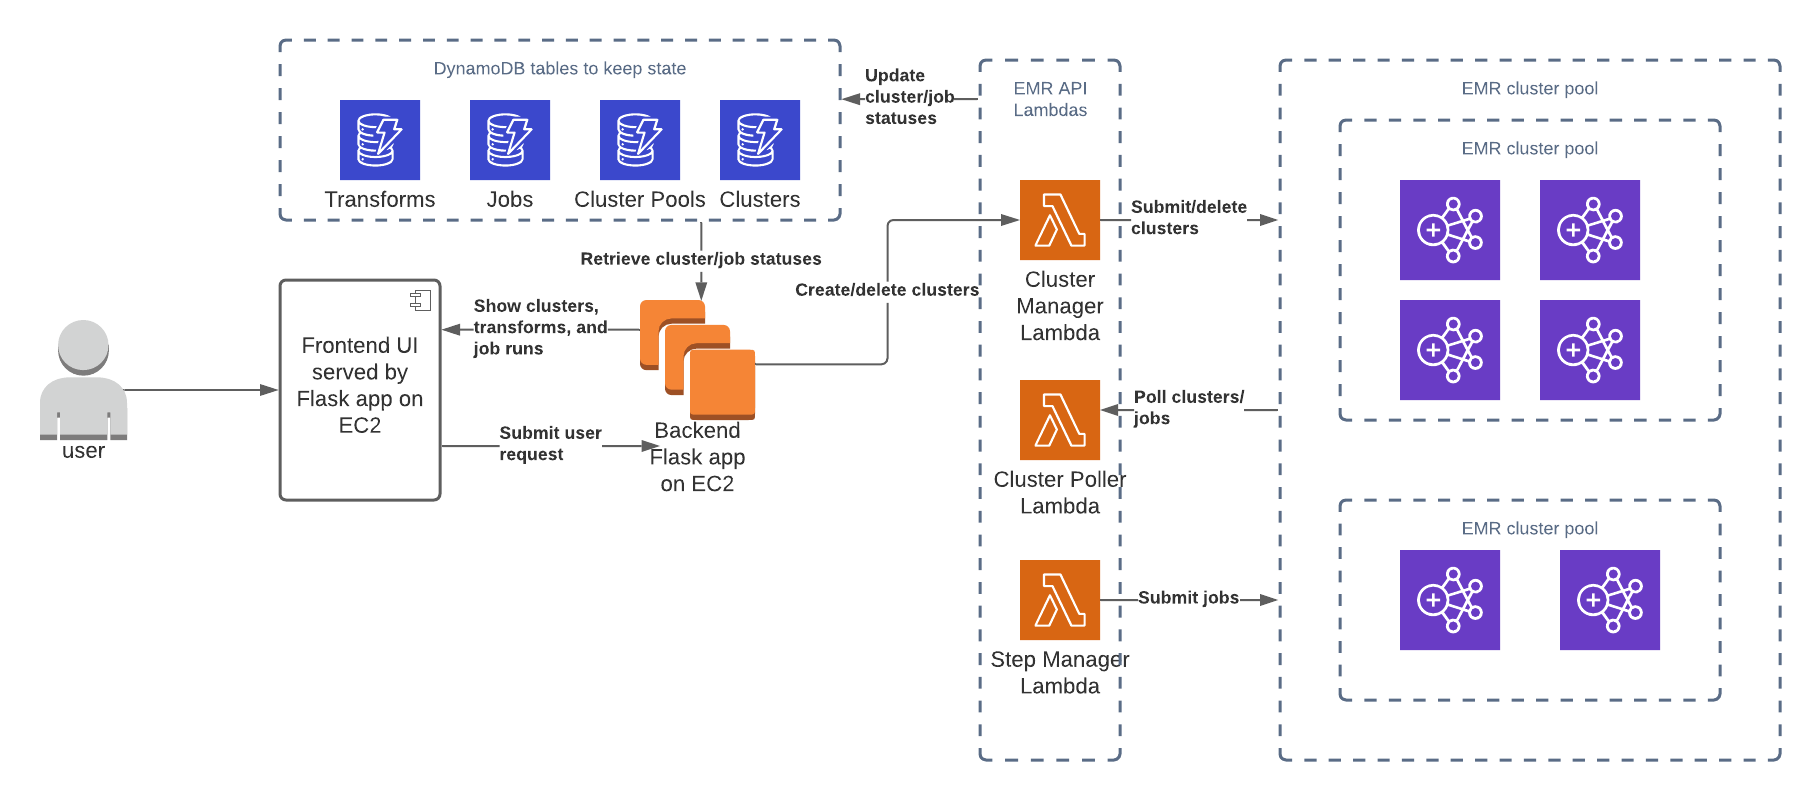
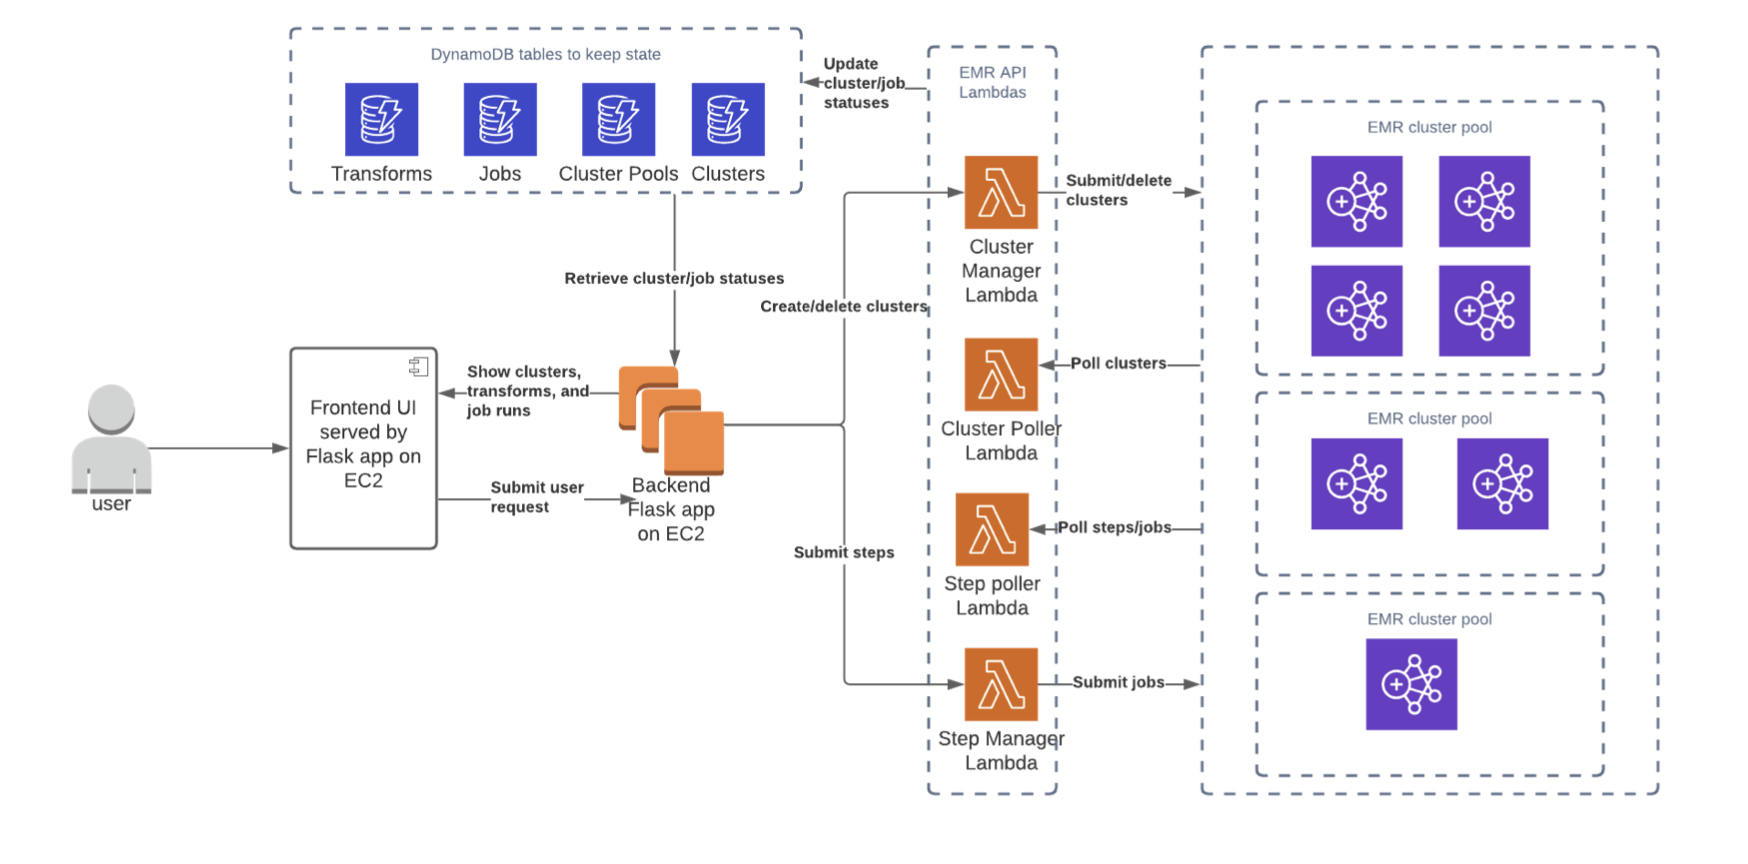
Post 13 and begin post 14

diff --git a/content/post13.rst b/content/post13.rst
@@ -1,0 +1,96 @@
+****************
+SparkFlow: Intro
+****************
+
+:date: 2021-02-28 00:00
+:modified: 2021-02-28 00:00
+:tags: Data Engineering
+:category: Data Engineering
+:authors: Adams Rosales
+:summary: Building an EMR orchestration and ETL tool for distributed jobs
+:header_cover: /static/post13/header.jpg
+
+Motivation
+##########
+I have been working with Spark jobs on AWS EMR for a few years now and have found myself implementing the same pieces of
+code to manage EMR clusters and submit applications on them each time I've switched teams. I have also had the pleasure
+(and displeasure) of working with several internal tools that abstract away this process behind custom built UIs.
+
+I've learned what works well and what doesn't work so well with these tools so I figured I would create something that
+mixes all the best qualities from them to create a lightweight orchestration tool I can use in the future.
+
+Background
+##########
+AWS EMR is service that allows users to deploy clusters of EC2 instances to run distributed data processing applications.
+You can launch the compute power you need to run these applications when you need it and tear it down when you don't,
+which provides a lot more flexibility and is much cheaper for transient workloads than maintaining an always-on on-premise
+Hadoop cluster.
+
+Managing clusters and submitting applications on them can be done in three ways: manually through the AWS console,
+programmatically through the AWS API with the various SDKs made available by Amazon, and through CloudFormation or a
+similar infrastructure as code tool. The manual way is obviously not suited for production pipelines and scaling
+infrastructure automatically. Writing scripts to interact with the AWS API is easy enough but requires a lot of boiler
+plate code and there are many configs to tweak. Designing something that works generally for different use cases is quite
+time consuming. Finally, CloudFormation is more suited for always-on clusters or a fixed fleet that just gets restarted
+without any inputs from users or applications.
+
+Unfortunately, there is no open source tool (that I know of) as of the end of 2020 that provides an easy to set up and
+use interface for running these EMR workflows. It would be nice if AWS offered a higher level abstraction on top of the
+EMR API that would give users a full-featured ETL tool for Spark, Hive, Flink, etc. applications. I guess they sort of
+have that with AWS Glue and the new managed AirFlow service but these are not quite there yet as more established ETL
+and orchestration tools we've seen in the traditional data warehousing space.
+
+Design
+######
+The system consists of three main components: the UI, Flask server, and AWS Lambdas that call various AWS API endpoints
+to create and manage EMR clusters and steps on those clusters. A high level diagram is below.
+
+.. image:: /static/post13/post13_design.png
+  :width: 100%
+  :alt: SparkFlow design diagram
+
+The cluster manager Lambda receives input from the Flask server on how many clusters to create along with the types of
+clusters and other configurations expected by EMR, launches those clusters, and stores their information in a DynamoDB
+table. This Lambda is also tasked with deleting specific clusters by terminating them in EMR and deleting the records
+from DynamoDB. When this Lambda is invoked, individual EMRs are created under a logical grouping based on compute
+requirements (tiny, small, medium, large, extra large). These are easier to understand groups so the user doesn't have
+to worry about the specific instance types and amounts to launch. Additionally, when a Spark application is submitted,
+it will be launched within a group of clusters. Any available cluster within that group can pick up the work, which acts
+as a simple load-balancing system.
+
+The cluster poller Lambda is tasked with periodically polling the active clusters in EMR and updating their status in
+Dynamo. These statuses will contain information about the current state of the cluster (running, launching, terminating, etc.)
+as well as how many steps are running or pending on that cluster. It will also record the statuses of those steps so that
+the Flask app can show the users the latest status of their jobs.
+
+Finally, the step manager Lambda will just submit job runs of transforms executed by the user through the Flask app. It
+will first check the status of clusters within the cluster pool that the transform to be executed is tied to and pick
+the cluster that is most available. For now this will be based on having the fewer number of steps, but given that
+individual steps may be more taxing than others, the availability metric will have to be improved in the long run.
+However, once it does pick a cluster, the Lambda will submit the step and create a record in DynamoDB for the Flask app
+to reference.
+
+The user interface will be split into three main sections: Clusters, Transforms, and Job Runs. Users will be able to
+create the cluster pools/logical groups mentioned above and delete them from the Clusters page. They will create
+transforms or job profiles and assign them to specific pools of clusters in the Transforms page. Finally, the Job Runs
+page will just show the status of transform executions. This will look something like the below working version.
+
+.. image:: /static/post13/post13_sparkflow_ui.png
+  :width: 100%
+  :alt: SparkFlow user interface
+
+Follow Along
+############
+The repos containing the code for this project are the following.
+
+`sparkflow-awstools <https://github.com/adaros92/sparkflow-awstools/>`_ - contains Python AWS API wrappers using boto3
+and logical models for EMR clusters, EMR steps, and Dynamo tables
+
+`sparkflow-backend <https://github.com/adaros92/sparkflow-backend/>`_ - Flask app code defining the server routes and UI
+
+`sparkflow-lambdas <https://github.com/adaros92/sparkflow-lambdas/>`_ - implementation of the cluster manager, cluster
+poller, and step manager Lambdas
+
+I'll be updating these repos as I work on the project and posting more detailed write-ups of the various components as
+they're built on this page. Stay tuned!
+

diff --git a/content/post14.rst b/content/post14.rst
@@ -1,0 +1,74 @@
+*********************
+Redshift Optimization
+*********************
+
+:date: 2021-03-26 00:00
+:modified: 2021-03-26 00:00
+:tags: Data Engineering
+:category: Data Engineering
+:authors: Adams Rosales
+:summary: How to improve query efficiency on AWS Redshift
+:header_cover: /static/post14/header.jpg
+
+An Overview of Redshift
+#######################
+`Redshift  <https://aws.amazon.com/redshift/>`_ is a fully managed cloud data warehouse available on AWS. It's the most
+popular data warehousing solution in use today due to its efficient columnar data storage, distributed parallel
+processing capabilities, and seamless scalability. It also integrates quite well with other AWS services like S3, Athena,
+and Glue, making it easier to move data in and out of the warehouse in addition to simply using Redshift as a compute
+engine on data physically stored in S3 without having to move the data out of S3.
+
+A Redshift cluster includes a single driver node and a collection of worker nodes. How many worker nodes exactly depends
+on the node types used (dc2, ds2, ra3) and how the cluster was configured when launched. Typically the number of worker
+nodes ranges from 1-128. These worker nodes are further divided into slices, which represent compute and storage units
+using equally sized portions of each node's memory and disk space. The number of slices per node also depends on the
+types of nodes being used, ranging from 2 to 32 slices per node.
+
+.. image:: /static/post14/post14_redshift_diagram.jpeg
+  :width: 100%
+  :alt: A diagram of the Redshift architecture
+
+The data are physically stored in the worker node slices and each slice is operated on in parallel to achieve
+distributed data processing. How the data are distributed among the slices is one of the important considerations an
+engineer must have to allow efficient access to that data. There are three different ways to do this:
+
+- Even - a round-robin distribution of records. Imagine going down a list of rows and alternating slices as you go so
+  that the data are evenly split across all the nodes.
+- All - includes a full copy of the data in the first slice of each worker node.
+- Key - acts like a hash table by first creating a unique hash key off of a column specified by the user during table
+  creation and then co-locating the records with the same hashed value in the same slices. This means that all records
+  pertaining to a certain column's value will be in the same slice together (for example, distributing on country code
+  will result in all US records being stored in the same slice).
+
+While you can think of the records as being distributed a certain way according to the table's distribution style, the
+actual data is organized on disk such that the individual columns are stored in separate files, which are further
+broken down into 1MB blocks on disk. Because the data are stored in a column-oriented format as opposed to a row-oriented
+format where individual files contain entire rows of data, fewer data need to be retrieved for analytical queries
+which only need certain column from the data. It also makes it possible to compress the block files more than if they
+contained entire rows of data because only the same type of data are stored together in single files depending on the
+column types.
+
+Optimizing Query Filters
+########################
+
+Optimizing Joins and Aggregations
+#################################
+
+Optimizing Spectrum Queries
+###########################
+
+Use the Explain Plan
+####################
+
+Additional Resources
+####################
+
+`Best practices overview  <https://www.youtube.com/watch?v=13iIj34nkQE>`_ -
+a good overview of Redshift best practices shown during the most recent AWS re:Invent
+
+`Advanced table design playbook  <https://aws.amazon.com/blogs/big-data/amazon-redshift-engineerings-advanced-table-design-playbook-preamble-prerequisites-and-prioritization/>`_ -
+the single best resource on Redshift optimization I've read to date
+
+`Using Automatic Table Optimization  <https://aws.amazon.com/blogs/big-data/optimizing-tables-in-amazon-redshift-using-automatic-table-optimization/>`_ -
+a relatively new feature that recommends optimal distribution and sort key configurations from data on historical query
+performance
